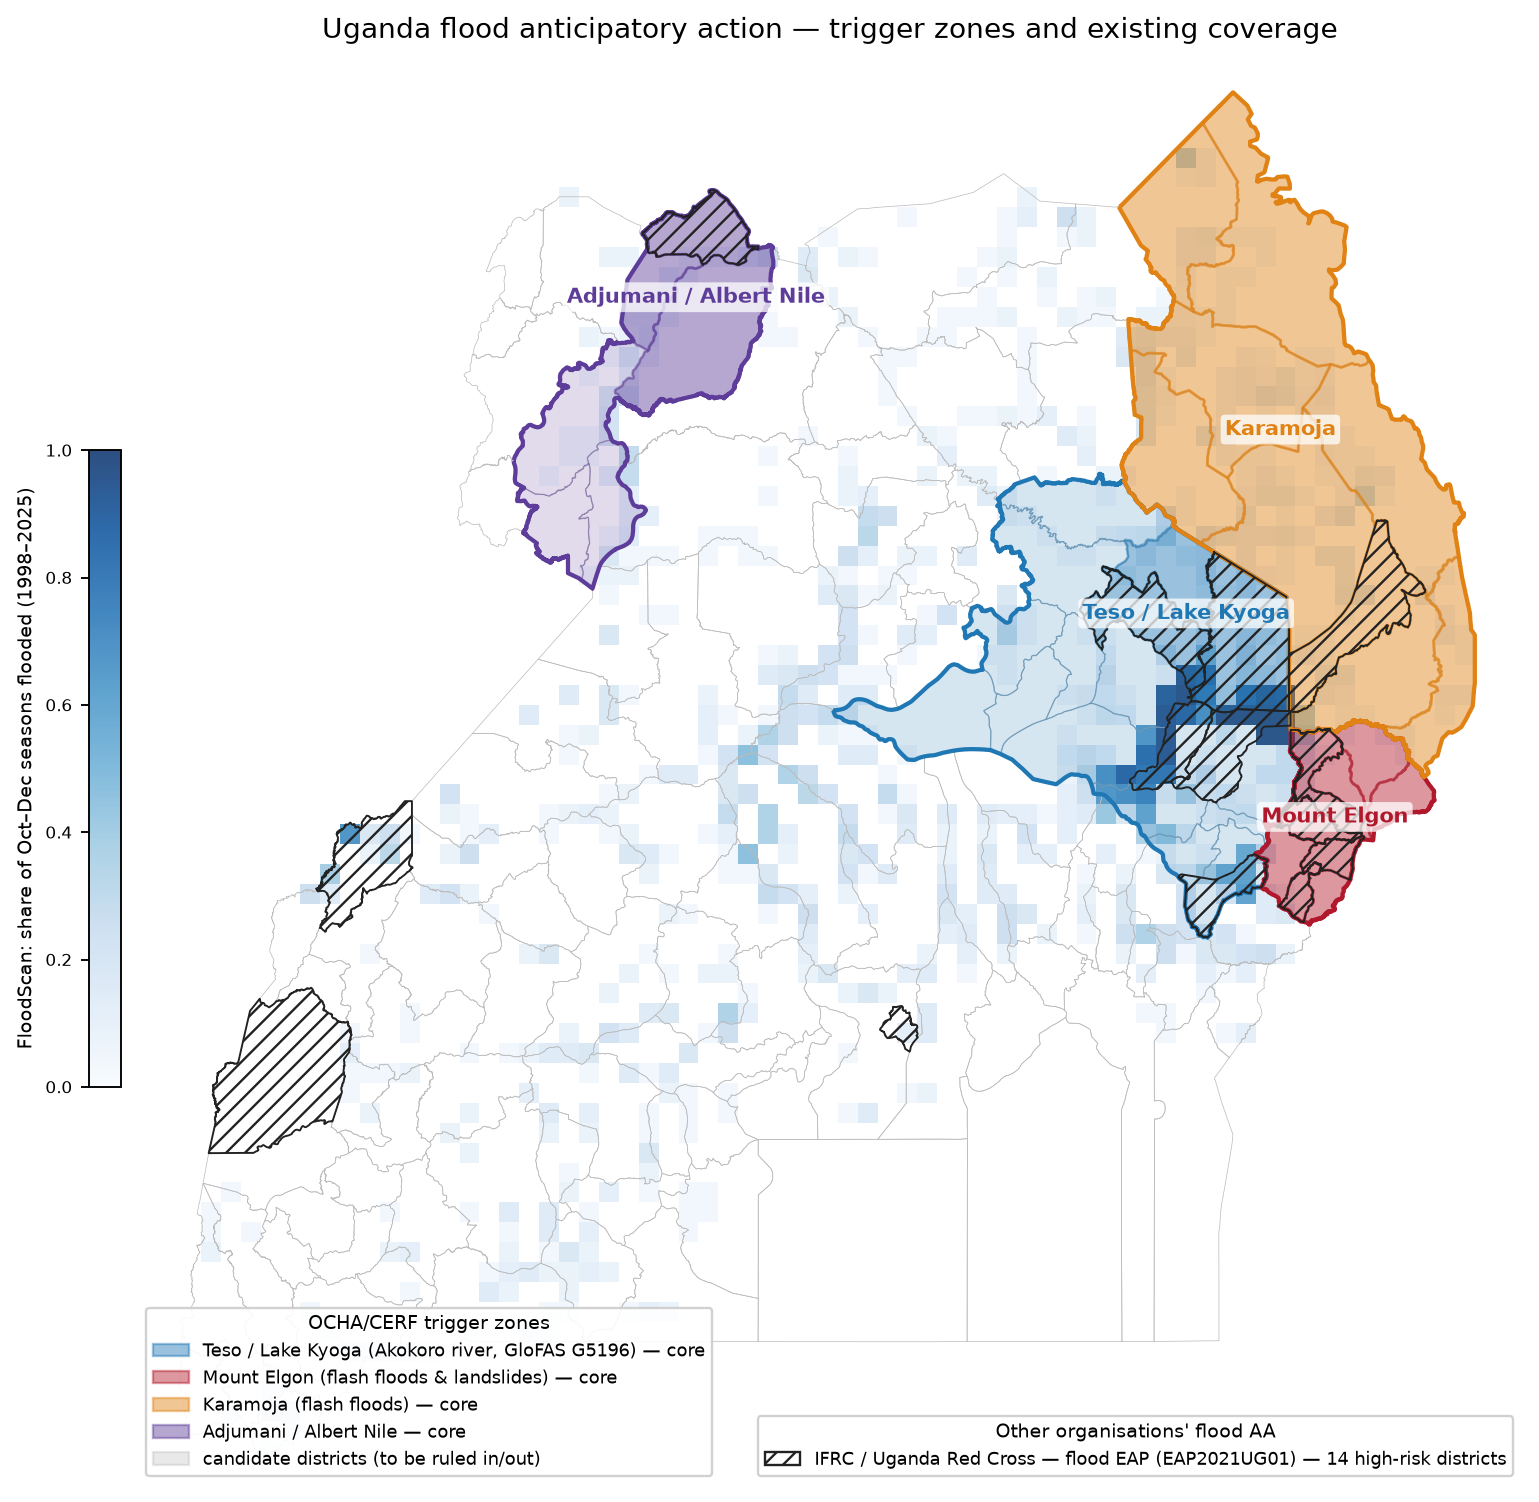
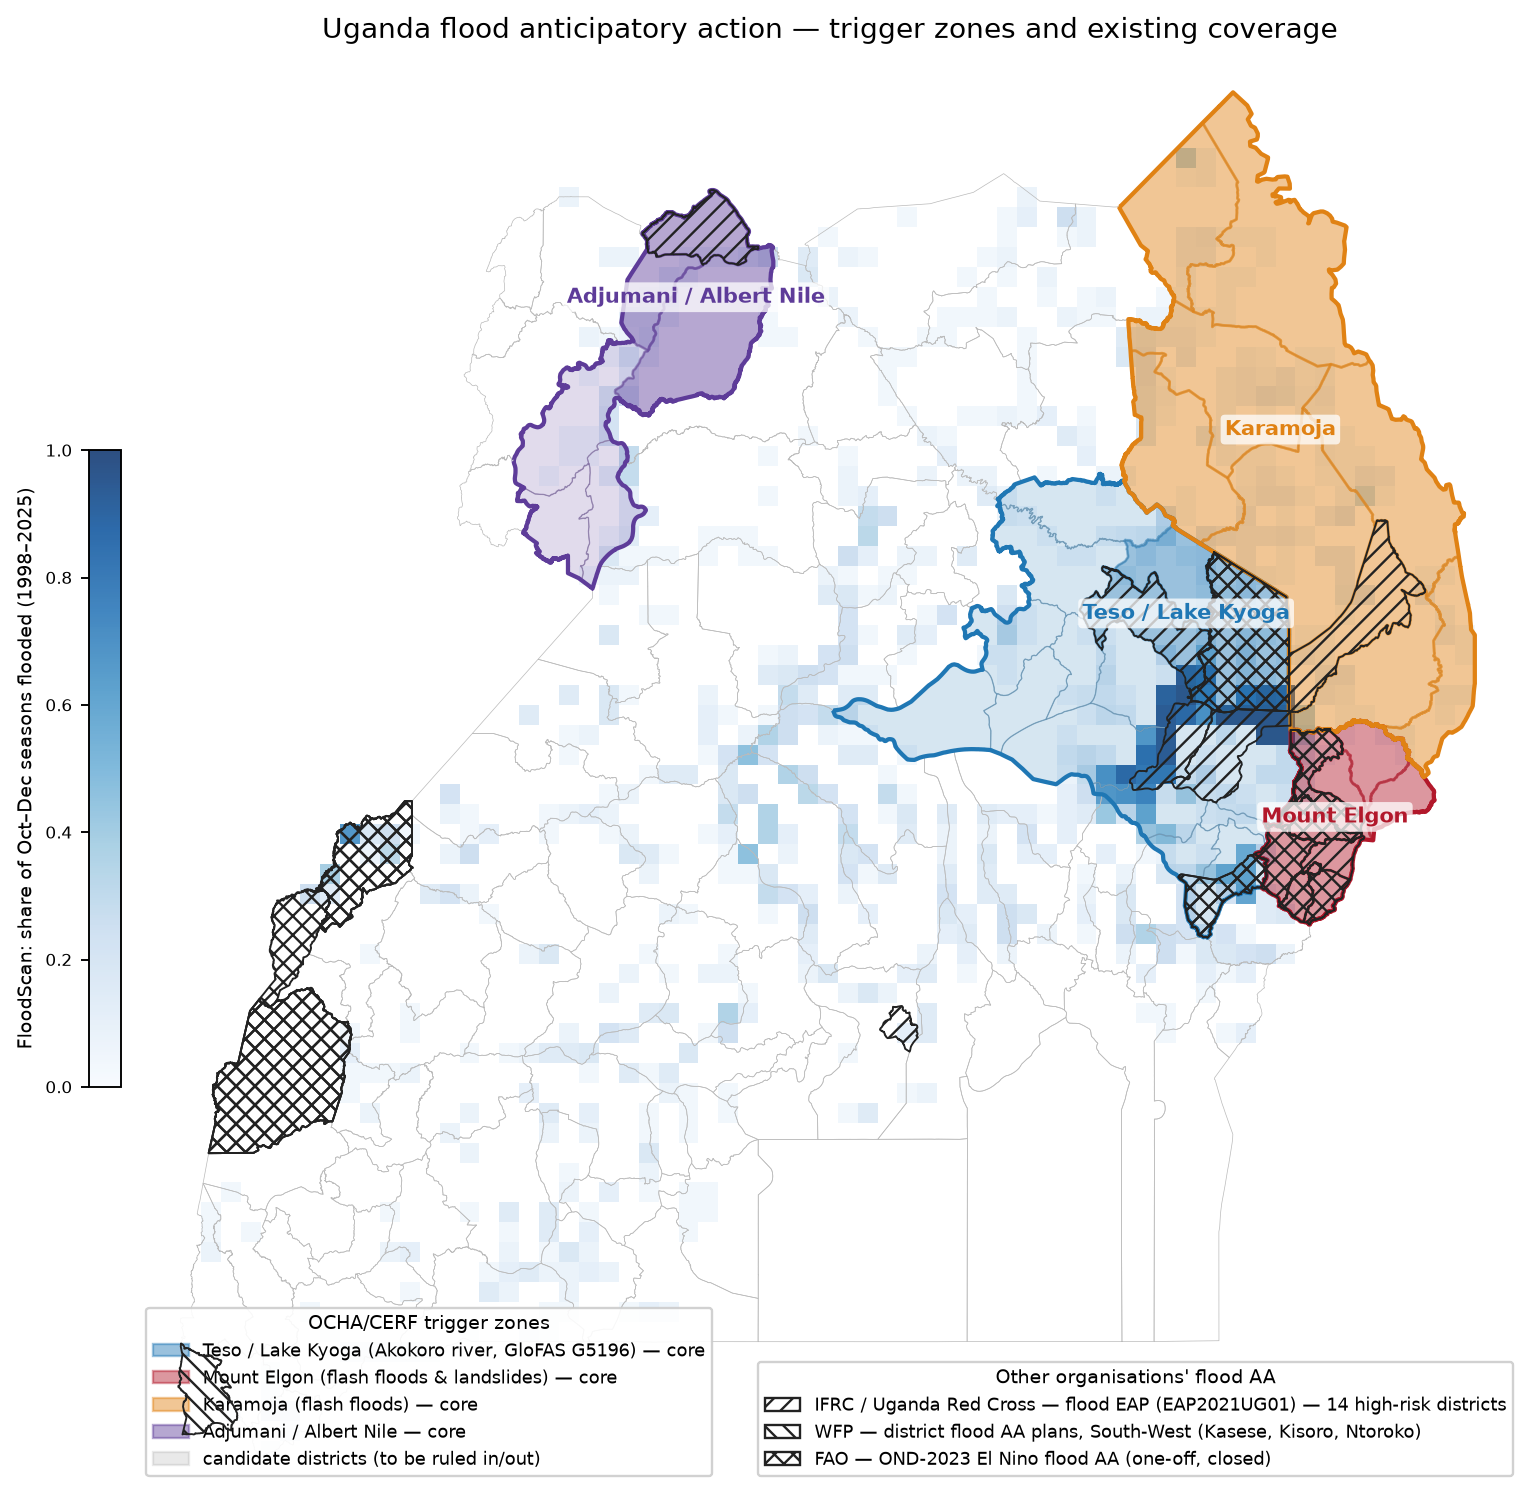
Coverage map: WFP South-West flood AA plans and FAO 2023 one-off; PRO-ACT noted as drought-only

diff --git a/src/frameworks.py b/src/frameworks.py
@@ -58,4 +58,45 @@ EXTERNAL: dict[str, ExternalFramework] = {
             "Nov 2023 lessons: multiple false alarms in the 2023 El Nino season; episodic floods not captured by the portal.",
         ),
     ),
+    "wfp_sw": ExternalFramework(
+        key="wfp_sw",
+        org="WFP",
+        label="district flood AA plans, South-West (Kasese, Kisoro, Ntoroko)",
+        districts=("Kasese", "Kisoro", "Ntoroko"),
+        trigger=(
+            "Flood triggers 'finalised' by MWE/DWRM in 2025 (Semliki river trigger in the Ntoroko contingency plan); "
+            "indicator, threshold and lead time not published"
+        ),
+        status=(
+            "2024: MAM flood forecast -> desilting; 2025: anticipatory cash to 2,135 people (mainly Ntoroko). "
+            "Anticipation Hub lists the WFP flood framework as 'under development'."
+        ),
+        source="WFP Uganda Annual Country Report 2025 (WFP-0000172882) p.22; ACR 2024; Anticipation Hub Uganda page",
+        verified=True,
+        notes=(
+            "WFP/FAO PRO-ACT in the 9 Karamoja districts + Kaberamaido, Katakwi is a DROUGHT AA plan "
+            "(activated May 2026) with multi-hazard bulletins — no flood trigger; not drawn on the flood map.",
+        ),
+    ),
+    "fao_2023": ExternalFramework(
+        key="fao_2023",
+        org="FAO",
+        label="OND-2023 El Nino flood AA (one-off, closed)",
+        districts=(
+            "Mbale",
+            "Butaleja",
+            "Sironko",
+            "Bulambuli",
+            "Manafwa",
+            "Namisindwa",
+            "Bundibugyo",
+            "Ntoroko",
+            "Kasese",
+            "Katakwi",
+        ),
+        trigger="Seasonal outlook (OND 2023, 40-45% above-normal) — one-off, no standing threshold",
+        status="11 Aug - 31 Dec 2023 only (OSRO/UGA/070/BEL, USD 1M, 78,375 people). FAO's standing AA in Uganda is Karamoja drought/livestock.",
+        source="FAO project report https://openknowledge.fao.org/server/api/core/bitstreams/22e1fbf6-6ae8-436c-9118-12d9d94482f6/content pp.1-2, 7",
+        verified=True,
+    ),
 }
